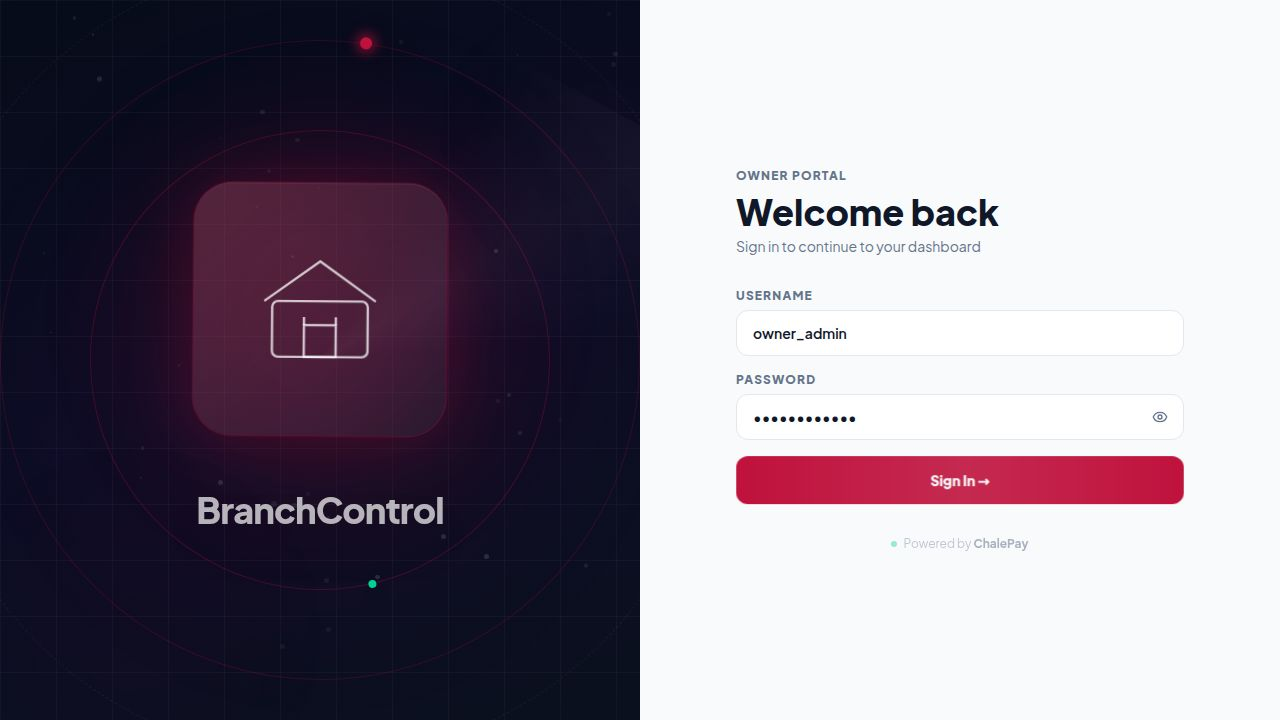
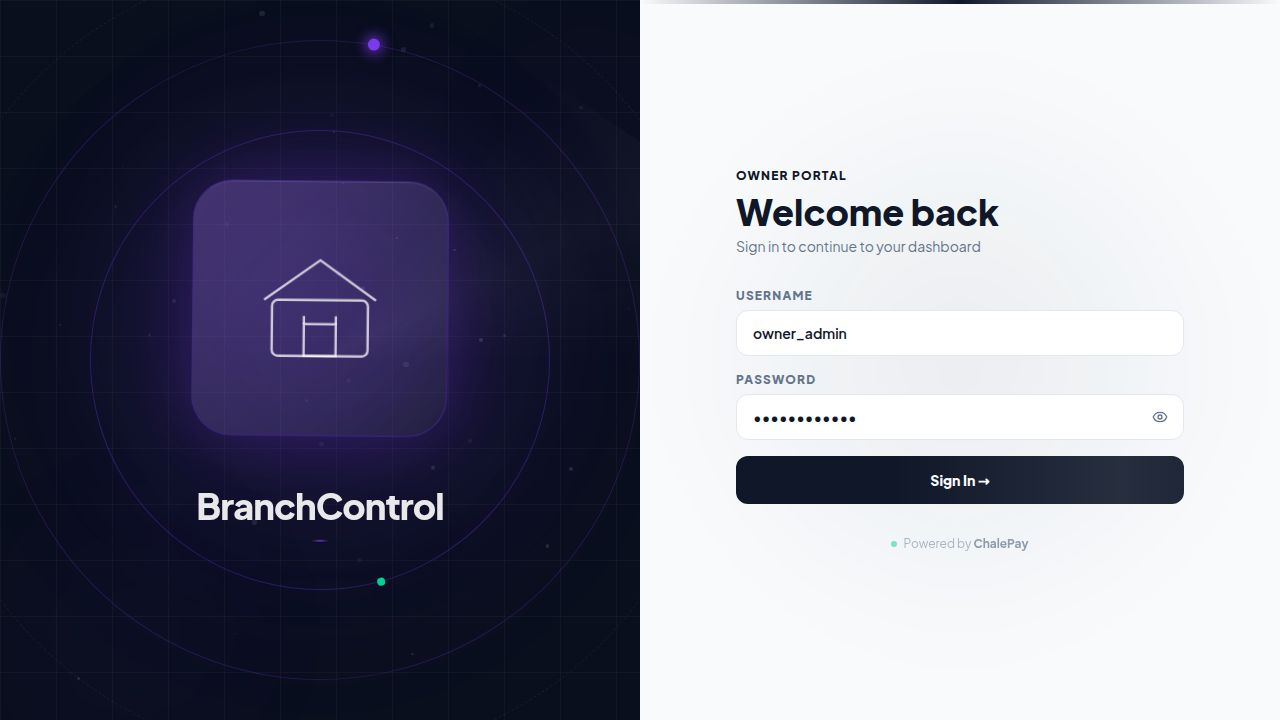
Add bank payment method to financial tracking and reporting features
Integrates bank as a payment method across the full stack, updating the API, database schema, client-side UI, and report generation to include bank transactions and totals.

Replit-Commit-Author: Agent
Replit-Commit-Session-Id: 2c31cd55-3f67-4ec0-9f7d-223d7b02fc42
Replit-Commit-Checkpoint-Type: full_checkpoint
Replit-Commit-Event-Id: c5e4e3f9-4cb3-4483-80d5-b12862c9771c
Replit-Commit-Screenshot-Url: https://storage.googleapis.com/screenshot-production-us-central1/f6eb8c87-9d6b-4b15-aad2-c1cf45fa247c/2c31cd55-3f67-4ec0-9f7d-223d7b02fc42/lIgtdvA
Replit-Helium-Checkpoint-Created: true

diff --git a/artifacts/branch-control/src/pages/Reports.tsx b/artifacts/branch-control/src/pages/Reports.tsx
@@ -29,11 +29,12 @@ function PdfPreview({ totals, filtered, period, branchFilter }: { totals: any; f
       </div>
 
       {/* Summary row */}
-      <div className="grid grid-cols-4 border-b border-gray-100">
+      <div className="grid grid-cols-5 border-b border-gray-100">
         {[
-          { label: "Total Sales", value: GHS(totals.totalSales), color: "#111" },
+          { label: "Total Sales", value: GHS(totals.totalSales),  color: "#111" },
           { label: "Net Profit",  value: GHS(totals.totalProfit), color: "#059669" },
           { label: "Cash",        value: GHS(totals.totalCash),   color: "#2563eb" },
+          { label: "Bank",        value: GHS(totals.totalBank),   color: "#4f46e5" },
           { label: "Credit",      value: GHS(totals.totalCredit), color: "#dc2626" },
         ].map(({ label, value, color }) => (
           <div key={label} className="px-4 py-3 border-r border-gray-100 last:border-r-0">
@@ -51,7 +52,7 @@ function PdfPreview({ totals, filtered, period, branchFilter }: { totals: any; f
           <table className="w-full">
             <thead>
               <tr className="bg-gray-50 border-b border-gray-100">
-                {["Branch", "Date", "Total", "Cash", "MoMo", "Credit", "Profit", "Margin"].map(h => (
+                {["Branch", "Date", "Total", "Cash", "MoMo", "Bank", "Credit", "Profit", "Margin"].map(h => (
                   <th key={h} className="px-3 py-2 text-left text-[9px] font-black uppercase tracking-widest text-gray-400">{h}</th>
                 ))}
               </tr>
@@ -64,6 +65,7 @@ function PdfPreview({ totals, filtered, period, branchFilter }: { totals: any; f
                   <td className="px-3 py-2 font-black">{GHS(r.total)}</td>
                   <td className="px-3 py-2 text-[#059669] font-bold">{GHS(r.cash)}</td>
                   <td className="px-3 py-2 text-[#2563eb] font-bold">{GHS(r.momo)}</td>
+                  <td className="px-3 py-2 text-[#4f46e5] font-bold">{GHS(r.bank)}</td>
                   <td className="px-3 py-2 text-[#dc2626] font-bold">{GHS(r.credit)}</td>
                   <td className="px-3 py-2 text-[#7c3aed] font-bold">{GHS(r.profit)}</td>
                   <td className="px-3 py-2 text-gray-500">{pct(r.profit, r.total)}%</td>
@@ -85,7 +87,7 @@ function PdfPreview({ totals, filtered, period, branchFilter }: { totals: any; f
 
 /* ── Excel Spreadsheet Preview ── */
 function ExcelPreview({ totals, filtered, period, branchFilter }: { totals: any; filtered: any[]; period: string; branchFilter: string }) {
-  const cols = ["Branch", "Date", "Status", "Total", "Cash", "MoMo", "Credit", "Profit", "Margin"];
+  const cols = ["Branch", "Date", "Status", "Total", "Cash", "MoMo", "Bank", "Credit", "Profit", "Margin"];
   return (
     <div className="rounded-xl border border-gray-200 overflow-hidden text-[10px] bg-white">
       {/* Toolbar strip */}
@@ -101,12 +103,13 @@ function ExcelPreview({ totals, filtered, period, branchFilter }: { totals: any;
       </div>
 
       {/* Summary kpis */}
-      <div className="grid grid-cols-4 border-b border-gray-200 bg-[#e8f4f0]/60">
+      <div className="grid grid-cols-5 border-b border-gray-200 bg-[#e8f4f0]/60">
         {[
           { label: "TOTAL SALES", value: GHS(totals.totalSales) },
           { label: "NET PROFIT",  value: GHS(totals.totalProfit) },
           { label: "CASH",        value: GHS(totals.totalCash) },
           { label: "MOMO",        value: GHS(totals.totalMomo) },
+          { label: "BANK",        value: GHS(totals.totalBank) },
         ].map(({ label, value }) => (
           <div key={label} className="px-3 py-2 border-r border-gray-200 last:border-r-0">
             <p className="text-gray-400 text-[8px] font-black tracking-widest">{label}</p>
@@ -140,6 +143,7 @@ function ExcelPreview({ totals, filtered, period, branchFilter }: { totals: any;
                 <td className="px-2 py-1.5 font-black border-r border-gray-100">{GHS(r.total)}</td>
                 <td className="px-2 py-1.5 text-[#059669] font-bold border-r border-gray-100">{GHS(r.cash)}</td>
                 <td className="px-2 py-1.5 text-[#2563eb] font-bold border-r border-gray-100">{GHS(r.momo)}</td>
+                <td className="px-2 py-1.5 text-[#4f46e5] font-bold border-r border-gray-100">{GHS(r.bank)}</td>
                 <td className="px-2 py-1.5 text-[#dc2626] font-bold border-r border-gray-100">{GHS(r.credit)}</td>
                 <td className="px-2 py-1.5 text-[#7c3aed] font-bold border-r border-gray-100">{GHS(r.profit)}</td>
                 <td className="px-2 py-1.5 text-gray-400">{pct(r.profit, r.total)}%</td>
@@ -155,6 +159,7 @@ function ExcelPreview({ totals, filtered, period, branchFilter }: { totals: any;
                 <td className="px-2 py-1.5 border-r border-gray-100">{GHS(filtered.reduce((s,r)=>s+r.total,0))}</td>
                 <td className="px-2 py-1.5 border-r border-gray-100 text-[#059669]">{GHS(filtered.reduce((s,r)=>s+r.cash,0))}</td>
                 <td className="px-2 py-1.5 border-r border-gray-100 text-[#2563eb]">{GHS(filtered.reduce((s,r)=>s+r.momo,0))}</td>
+                <td className="px-2 py-1.5 border-r border-gray-100 text-[#4f46e5]">{GHS(filtered.reduce((s,r)=>s+r.bank,0))}</td>
                 <td className="px-2 py-1.5 border-r border-gray-100 text-[#dc2626]">{GHS(filtered.reduce((s,r)=>s+r.credit,0))}</td>
                 <td className="px-2 py-1.5 border-r border-gray-100 text-[#7c3aed]">{GHS(filtered.reduce((s,r)=>s+r.profit,0))}</td>
                 <td className="px-2 py-1.5" />
@@ -282,7 +287,7 @@ export default function Reports() {
   const { data: reports, isLoading: reportsLoading } = useListReports();
   const { data: summary, isLoading: summaryLoading } = useGetReportsSummary();
 
-  const totals = summary ?? { totalSales: 0, totalProfit: 0, totalCash: 0, totalMomo: 0, totalCredit: 0, totalItems: 0, marginPct: 0 };
+  const totals = summary ?? { totalSales: 0, totalProfit: 0, totalCash: 0, totalMomo: 0, totalBank: 0, totalCredit: 0, totalItems: 0, marginPct: 0 };
   const filtered = (reports ?? []).filter(r => branchFilter === "All" || r.branch === branchFilter);
   const grandTotal = filtered.reduce((s, r) => s + r.total, 0);
 
@@ -324,10 +329,11 @@ export default function Reports() {
         )}
         <p className="text-muted-foreground mt-1">{totals.totalItems} items sold</p>
 
-        <div className="mt-6 pt-5 border-t border-border grid grid-cols-2 gap-3 md:grid-cols-5">
+        <div className="mt-6 pt-5 border-t border-border grid grid-cols-2 gap-3 md:grid-cols-6">
           {[
             { label: "Cash",   value: GHS(totals.totalCash),   color: "text-emerald-600" },
             { label: "MoMo",   value: GHS(totals.totalMomo),   color: "text-blue-600" },
+            { label: "Bank",   value: GHS(totals.totalBank),   color: "text-indigo-600" },
             { label: "Credit", value: GHS(totals.totalCredit), color: "text-red-600" },
             { label: "Profit", value: GHS(totals.totalProfit), color: "text-purple-600" },
             { label: "Margin", value: `${totals.marginPct}%`,  color: "text-amber-600" },
@@ -413,6 +419,12 @@ export default function Reports() {
                     <span className="text-xs font-bold text-muted-foreground">MoMo</span>
                     <span className="font-black text-blue-600">{GHS(r.momo)}</span>
                   </div>
+                  {r.bank > 0 && (
+                    <div className="flex gap-2 justify-end">
+                      <span className="text-xs font-bold text-muted-foreground">Bank</span>
+                      <span className="font-black text-indigo-600">{GHS(r.bank)}</span>
+                    </div>
+                  )}
                   <div className="flex gap-2 justify-end">
                     <span className="text-xs font-bold text-muted-foreground">Credit</span>
                     <span className="font-black text-red-600">{GHS(r.credit)}</span>

diff --git a/artifacts/branch-control/src/pages/Entry.tsx b/artifacts/branch-control/src/pages/Entry.tsx
@@ -65,8 +65,8 @@ export default function Entry() {
   }
 
   const totals = useMemo(() => {
-    let cash = 0, momo = 0, credit = 0, profit = 0, items = 0;
-    if (!products) return { cash, momo, credit, total: 0, profit, items };
+    let cash = 0, momo = 0, bank = 0, credit = 0, profit = 0, items = 0;
+    if (!products) return { cash, momo, bank, credit, total: 0, profit, items };
     rows.forEach(row => {
       const qty = Number(row.sold || 0);
       if (!qty) return;
@@ -77,6 +77,7 @@ export default function Entry() {
       profit += qty * (p.price - p.cost);
       if (row.pay === "Cash") cash += amount;
       else if (row.pay === "MoMo") momo += amount;
+      else if (row.pay === "Bank") bank += amount;
       else if (row.pay === "Credit") credit += amount;
       else if (row.pay === "Split") {
         const pd = Number(row.paid || 0);
@@ -84,7 +85,7 @@ export default function Entry() {
         credit += Math.max(0, amount - pd);
       }
     });
-    return { cash, momo, credit, total: cash + momo + credit, profit, items };
+    return { cash, momo, bank, credit, total: cash + momo + bank + credit, profit, items };
   }, [rows, products]);
 
   async function handleFinish() {
@@ -273,10 +274,11 @@ export default function Entry() {
 
       {/* Totals */}
       <div className="grid gap-4 md:grid-cols-[1fr_340px]">
-        <div className="grid grid-cols-2 gap-3 md:grid-cols-4">
+        <div className="grid grid-cols-2 gap-3 md:grid-cols-5">
           {[
             { label: "Cash", value: GHS(totals.cash), color: "text-emerald-600" },
             { label: "MoMo", value: GHS(totals.momo), color: "text-blue-600" },
+            { label: "Bank", value: GHS(totals.bank), color: "text-indigo-600" },
             { label: "Credit", value: GHS(totals.credit), color: "text-red-600" },
             { label: "Profit", value: GHS(totals.profit), color: "text-purple-600" },
           ].map(({ label, value, color }) => (

diff --git a/artifacts/api-server/src/routes/entries.ts b/artifacts/api-server/src/routes/entries.ts
@@ -22,7 +22,7 @@ router.post("/entries", async (req, res): Promise<void> => {
   const products = await db.select().from(productsTable);
   const productMap = new Map(products.map(p => [p.code, p]));
 
-  let totalCash = 0, totalMomo = 0, totalCredit = 0, totalProfit = 0, itemsSold = 0;
+  let totalCash = 0, totalMomo = 0, totalBank = 0, totalCredit = 0, totalProfit = 0, itemsSold = 0;
 
   for (const line of lines) {
     const qty = line.quantitySold;
@@ -36,6 +36,7 @@ router.post("/entries", async (req, res): Promise<void> => {
 
     if (line.paymentMethod === "Cash") totalCash += amount;
     else if (line.paymentMethod === "MoMo") totalMomo += amount;
+    else if (line.paymentMethod === "Bank") totalBank += amount;
     else if (line.paymentMethod === "Credit") totalCredit += amount;
     else if (line.paymentMethod === "Split") {
       const amtPaid = line.amountPaid ?? 0;
@@ -52,11 +53,11 @@ router.post("/entries", async (req, res): Promise<void> => {
       );
   }
 
-  const totalAmount = totalCash + totalMomo + totalCredit;
+  const totalAmount = totalCash + totalMomo + totalBank + totalCredit;
 
   const [entry] = await db
     .insert(entriesTable)
-    .values({ branch, totalCash, totalMomo, totalCredit, totalAmount, totalProfit, itemsSold, status: "LOCKED" })
+    .values({ branch, totalCash, totalMomo, totalBank, totalCredit, totalAmount, totalProfit, itemsSold, status: "LOCKED" })
     .returning();
 
   res.status(201).json({ ...entry, createdAt: entry.createdAt.toISOString() });

diff --git a/artifacts/api-server/src/routes/reports.ts b/artifacts/api-server/src/routes/reports.ts
@@ -12,6 +12,7 @@ function entryToReport(e: typeof entriesTable.$inferSelect) {
     date: new Date(e.createdAt).toLocaleDateString("en-GH", { dateStyle: "medium" }),
     cash: e.totalCash,
     momo: e.totalMomo,
+    bank: e.totalBank,
     credit: e.totalCredit,
     total: e.totalAmount,
     profit: e.totalProfit,
@@ -31,10 +32,11 @@ router.get("/reports/summary", async (_req, res): Promise<void> => {
   const totalProfit = entries.reduce((s, e) => s + e.totalProfit, 0);
   const totalCash = entries.reduce((s, e) => s + e.totalCash, 0);
   const totalMomo = entries.reduce((s, e) => s + e.totalMomo, 0);
+  const totalBank = entries.reduce((s, e) => s + e.totalBank, 0);
   const totalCredit = entries.reduce((s, e) => s + e.totalCredit, 0);
   const totalItems = entries.reduce((s, e) => s + e.itemsSold, 0);
   const marginPct = totalSales > 0 ? Math.round((totalProfit / totalSales) * 100) : 0;
-  res.json(GetReportsSummaryResponse.parse({ totalSales, totalProfit, totalCash, totalMomo, totalCredit, totalItems, marginPct }));
+  res.json(GetReportsSummaryResponse.parse({ totalSales, totalProfit, totalCash, totalMomo, totalBank, totalCredit, totalItems, marginPct }));
 });
 
 export default router;

diff --git a/artifacts/branch-control/src/lib/format.ts b/artifacts/branch-control/src/lib/format.ts
@@ -7,4 +7,4 @@ export const BRANCHES = ["Adenta", "Spintex", "Kasoa"] as const;
 export const WAREHOUSES = ["Main Warehouse", "North Warehouse"] as const;
 export const LOCATIONS = [...BRANCHES, ...WAREHOUSES] as const;
 export const SUPPLIERS = ["Dangote", "Diamond Cement", "Buildmart", "PanTile Ltd", "SteelHub Ghana"];
-export const PAYMENT_METHODS = ["Cash", "MoMo", "Credit", "Split"];
+export const PAYMENT_METHODS = ["Cash", "MoMo", "Bank", "Credit", "Split"];

diff --git a/artifacts/branch-control/src/pages/Settings.tsx b/artifacts/branch-control/src/pages/Settings.tsx
@@ -790,7 +790,7 @@ export default function Settings() {
             <p className="text-sm text-muted-foreground">Configure your business, interface, products, and locations</p>
           </div>
 
-          <div className="grid grid-cols-1 sm:grid-cols-2 xl:grid-cols-3 gap-3">
+          <div className="grid grid-cols-2 lg:grid-cols-3 xl:grid-cols-4 gap-3">
             {NAV_TILES.map(({ id, icon: Icon, title, desc, count }) => (
               <button
                 key={id}

diff --git a/lib/db/src/schema/entries.ts b/lib/db/src/schema/entries.ts
@@ -7,6 +7,7 @@ export const entriesTable = pgTable("entries", {
   branch: text("branch").notNull(),
   totalCash: doublePrecision("total_cash").notNull().default(0),
   totalMomo: doublePrecision("total_momo").notNull().default(0),
+  totalBank: doublePrecision("total_bank").notNull().default(0),
   totalCredit: doublePrecision("total_credit").notNull().default(0),
   totalAmount: doublePrecision("total_amount").notNull().default(0),
   totalProfit: doublePrecision("total_profit").notNull().default(0),